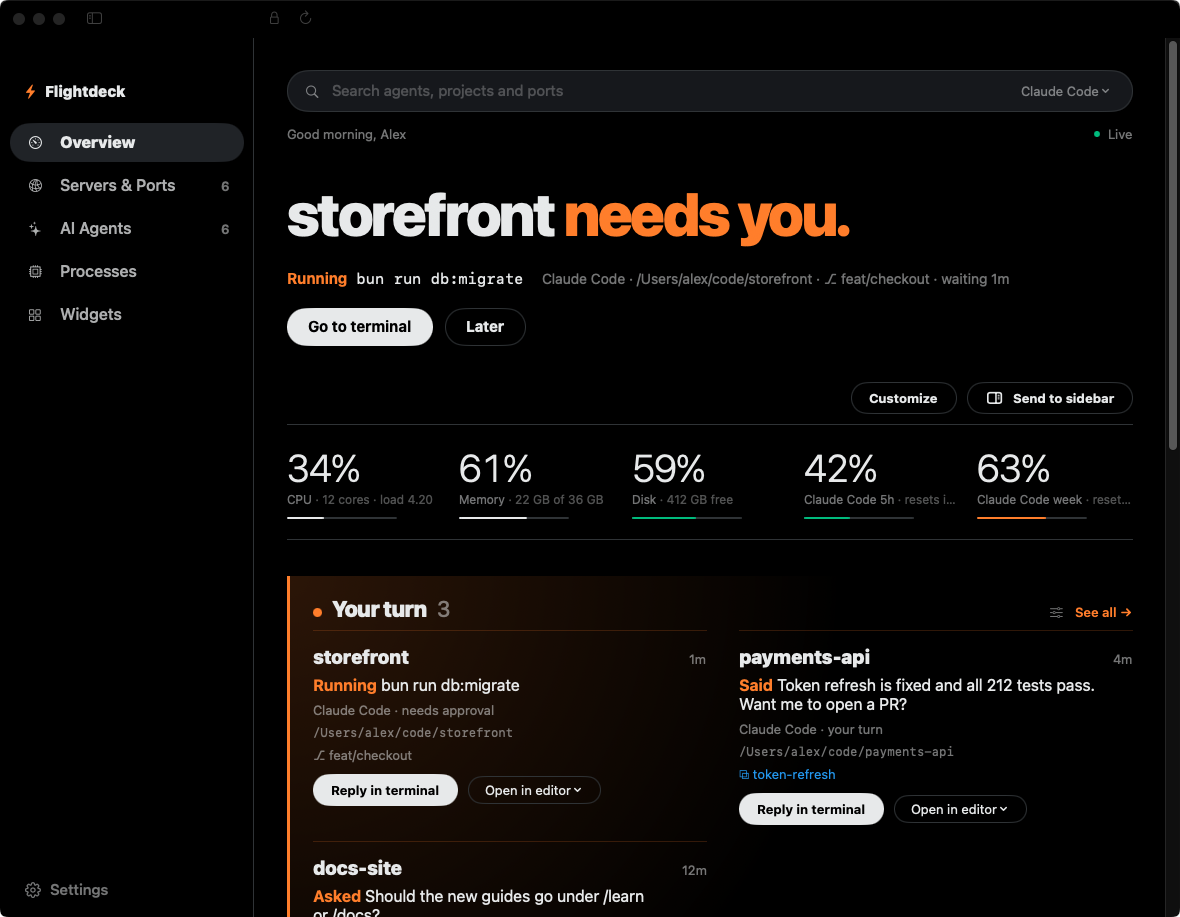
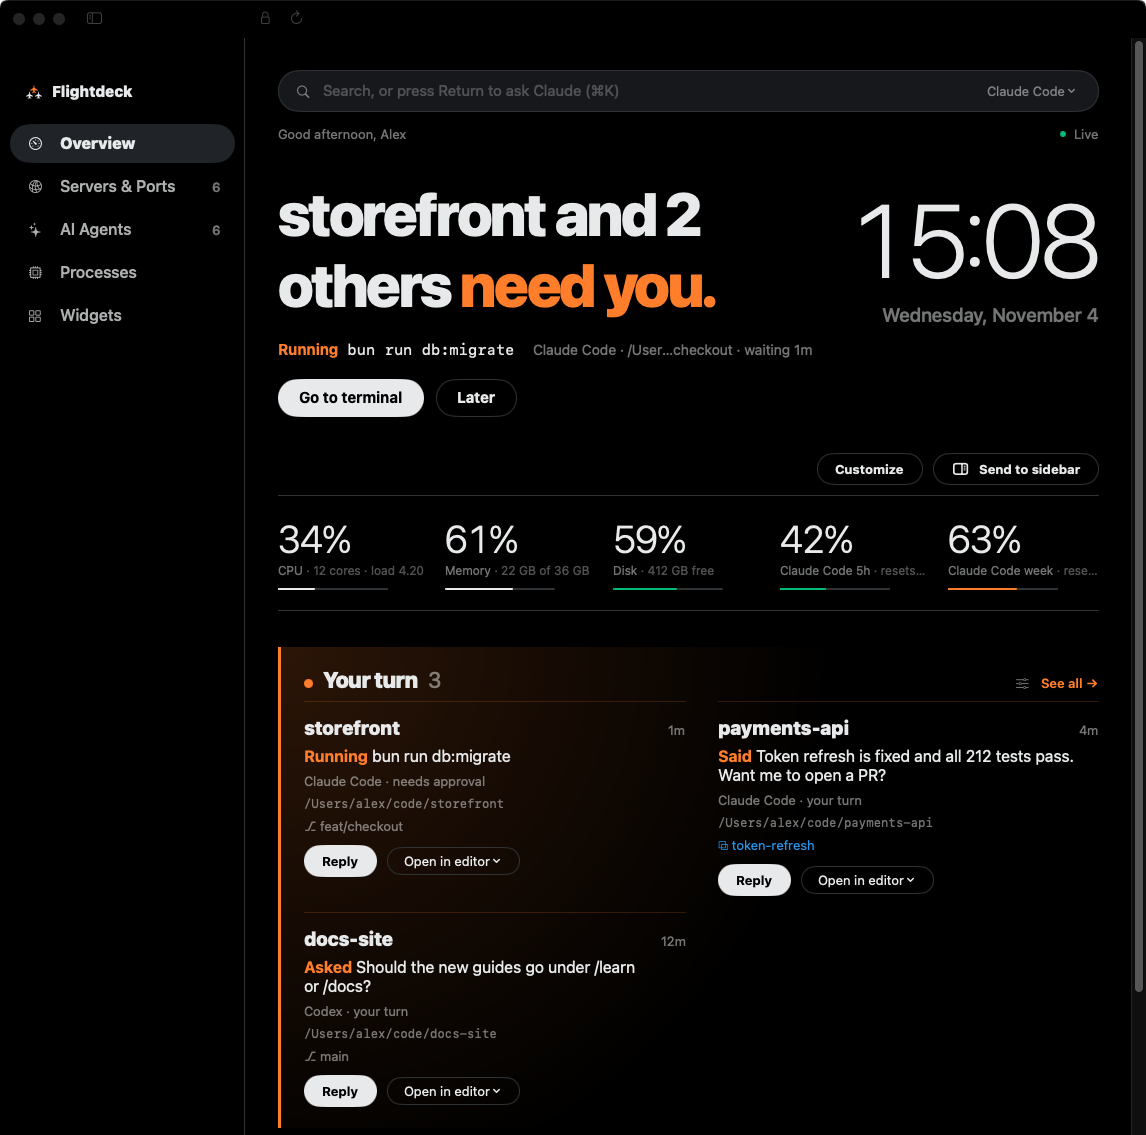
Document Ask Claude and refresh the overview screenshot
- README features list Ask Claude (Return or Cmd-K) and the hover X on Your turn cards
- architecture.md describes the Ask/ folder
- New demo-mode overview screenshot with the clock, jet logo and new headline

diff --git a/README.md b/README.md
@@ -51,11 +51,12 @@ Screenshots use demo data: start the app with `FLIGHTDECK_DEMO=1` to see the sam
 - **Dev servers**: every listening port mapped to its git project, branch and worktree, with the framework detected (e.g. "Next.js · shop · worktree checkout · :3000"). Open in browser, editor or terminal, or stop the process.
 - **AI agents**: which folders Claude Code, Codex and other agents are working in, and whether each is working, waiting for approval or waiting for you.
 - **Usage limits**: Codex 5h and weekly limits from local logs; Claude token counts from local logs, and optionally Claude limit percentages.
+- **Ask Claude**: type a question in the overview's search bar and press Return, or press ⌘K anywhere in the dashboard. The answer opens in a palette with follow-ups, and agents it names open their terminal in one click. It runs your installed `claude` CLI with read-only tools and a snapshot of what the dashboard shows.
 - **Custom widgets**: shell commands shown as dashboard tiles.
 
 Ships 13 themes. A theme sets the dashboard layout as well as its colours: Ignition is the default (a near-black agent board that leads with whichever agent needs you), plus Clean Dark, Clean Light, a "match system" option, Tokyo Night, Catppuccin, Dracula and other popular coding palettes. More layouts are planned.
 
-A big clock sits beside the "needs you" headline on the overview; like every section it can be moved, resized or hidden.
+A big clock sits beside the "needs you" headline on the overview; like every section it can be moved, resized or hidden. Hover a "Your turn" card and click its X to clear it until that agent does something new.
 
 Every dashboard page can be rearranged: click the lock button in the toolbar, then drag sections to move them (also onto another page in the sidebar), drag their right edge to resize on a 12-column grid, or hide them and add them back from the tray. Locking saves a custom version of the theme's layout, e.g. "Ignition (custom)"; Settings › Appearance resets it.
 

diff --git a/docs/architecture.md b/docs/architecture.md
@@ -22,6 +22,7 @@ One Swift package with two targets.
 
 - **Store/** — `MonitorEngine` owns the collectors and blocks; `MonitorStore` (`@Observable`, main actor) polls it off the main thread: system every 2s, ports and agents every 5s, usage every 60s, widgets every 5s, project cache every 30s.
 - **Settings/** — `AppSettings`, persisted to UserDefaults.
+- **Ask/** — `ClaudeAsker` answers the dashboard's questions: `AskContext` writes a `CLAUDE.md` guide and a live `state.md` to `~/Library/Application Support/Flightdeck/Ask/`, then it runs `claude -p` there with only Read, Grep and Glob allowed (`--continue` for follow-ups). `AskPalette` shows the answer over the dashboard window; Return in the overview search bar or Edit › Ask Claude… (⌘K) opens it.
 - **Updates/** — `AppUpdater` wraps Sparkle's `SPUStandardUpdaterController` and publishes whether a check can start. It only starts inside the bundled app, which carries `SUFeedURL` and `SUPublicEDKey`; Sparkle keeps the automatic-check setting in its own user defaults. The release workflow publishes the signed appcast to the `update-feed` release.
 - **Views/** — `MenuBar/` (label and the 380pt popover), `Dashboard/` (`NavigationSplitView` with Overview, Servers & Ports, AI Agents, Processes, Widgets; every page is a `PageCanvas` of sections on a `SectionGrid`, arranged by the current theme's `DashboardLayout` or the user's custom version of it; the sidebar and menu bar panel are styled by that layout too), `Settings/`, and shared `Components/`.
 - **Editing layouts** — `LayoutEditor` holds a draft while the window is unlocked; `EditableSection` adds the drag handle, resize edge, hide and move-to-page controls; locking saves the draft to `AppSettings.customLayouts` keyed by layout. Saved layouts are sanitised on load, so deleted widgets drop out and new ones land on their home page.
